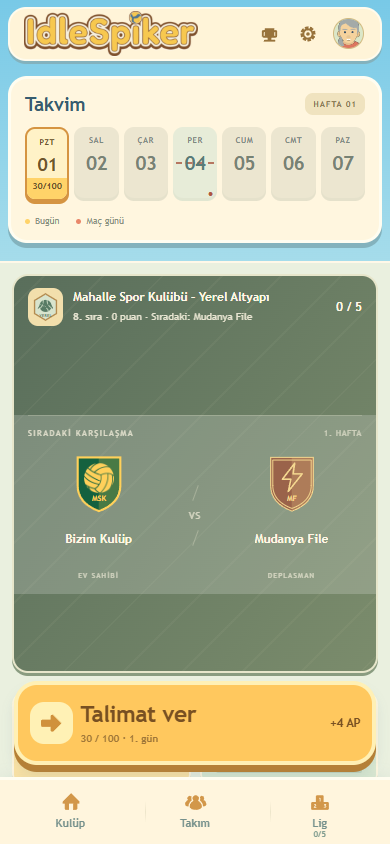
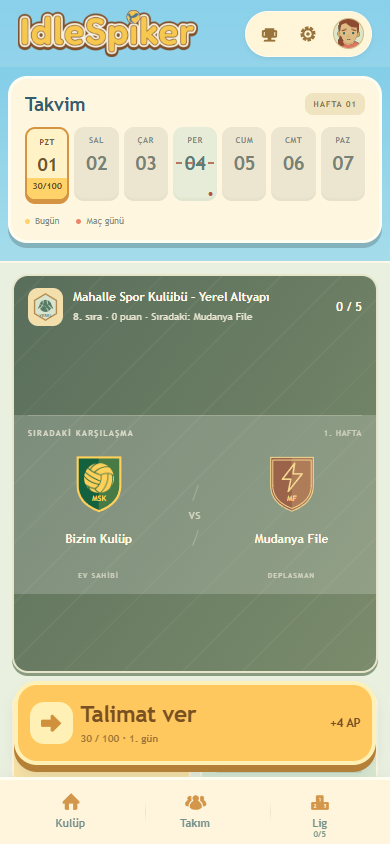
Restore original top menu appearance

Changed region(s): [[0.0, 0.0, 0.9846, 0.0924]]

diff --git a/index-beta.html b/index-beta.html
@@ -1,5 +1,5 @@
 <!doctype html>
-<html lang="tr" class="desktop-beta"><head><script src="desktop-beta-storage.js?v=df309e5c0cea"></script><script src="cheat-defaults.js?v=fb04f38373fa"></script><script src="flow-preview-environment.js?v=bd84173813bd"></script><meta charset="utf-8"><script src="font-preview-settings.js?v=c0da6286ef21"></script><meta name="viewport" content="width=device-width,initial-scale=1,viewport-fit=cover"><meta name="theme-color" content="#72c8e5"><link rel="manifest" href="manifest.webmanifest"><link rel="apple-touch-icon" href="assets/app/apple-touch-icon.png"><meta name="apple-mobile-web-app-capable" content="yes"><meta name="apple-mobile-web-app-title" content="Idle Spiker"><meta name="apple-mobile-web-app-status-bar-style" content="default"><link rel="stylesheet" href="app-display.css?v=386826b6db0c"><script src="app-display.js?v=fa3d8411a8fc" defer></script><title>Idle Spiker · Masaüstü Beta</title><link rel="stylesheet" href="menu.css?v=9c040b514aae"><link rel="stylesheet" href="menu-game.css?v=3b224ff0815e"><link rel="stylesheet" href="team.css?v=7a2716a13f11"><link rel="stylesheet" href="league-season.css?v=7bd34ac416e3"><link rel="stylesheet" href="loading-screen.css?v=9099e36fe6b2"><link rel="stylesheet" href="club-journey.css?v=a08812febb42"><link rel="stylesheet" href="bal-stage.css?v=9355e660bac8"><script src="season-clock.js?v=c90a74233800"></script><script src="bal-recovery.js?v=59d7a7b23c62"></script><script src="weekly-season-migration.js?v=c91052e58aec"></script><script src="number-ui.js?v=a24b5930e991"></script><link rel="stylesheet" href="theme.css?v=3c0c28bd21fb"><script src="theme.js?v=3046f3da7b5c"></script><link rel="stylesheet" href="achievements.css?v=9f468e44953f"><link rel="stylesheet" href="division-three.css?v=aaa8c61c16f3"><link rel="stylesheet" href="social-screen.css?v=5508cfdeab72"><link rel="stylesheet" href="league-players.css?v=86e88a43a3b5"><link rel="stylesheet" href="language.css?v=b027c2a552b8"><script src="language-data.js?v=3d3af7f60753"></script><script src="language.js?v=6352cc5dd035"></script><link rel="stylesheet" href="player-skills.css?v=da608137e96c"><link rel="stylesheet" href="styles/ui/player-club-card.css?v=90bb486a6720"><link rel="stylesheet" href="styles/ui/transfer-center.css?v=c191ab90712e"><script src="scripts/ui/dialog-navigation.js?v=36f81b7c2d8d" defer></script><link rel="stylesheet" href="social-journey.css?v=381c58c2dc22"><link rel="stylesheet" href="next-match-card.css?v=86a1598081ee"><link rel="stylesheet" href="social-follower-counter.css?v=038892551d63"><link rel="stylesheet" href="player-profile.css?v=4d4d593c797b"><link rel="stylesheet" href="ui-icons.css?v=b5ce6adfd485"><link rel="stylesheet" href="flow-effects.css?v=f82bf838ab8c"><link rel="stylesheet" href="board-doodles.css?v=85c5f17bdbe1"><link rel="stylesheet" href="board-presentation.css?v=35cd8283a51d"><link rel="stylesheet" href="progression-visuals.css?v=abd1b1d35d38"><link rel="stylesheet" href="flow-lanes.css?v=4b1a3ff63e8a"><link rel="stylesheet" href="flow-media-theme.css?v=a959430cbe25"><link rel="stylesheet" href="ui-components.css?v=c7c95201ad5f"><link rel="stylesheet" href="academy.css?v=7cbff784e2a2"><link rel="stylesheet" href="academy-career.css?v=6ae293465cf1"><link rel="stylesheet" href="legendary-unlock-preview.css?v=247b90f08604"><script src="point-music-rules.js?v=8ce930b25ffd"></script><link rel="stylesheet" href="desktop-beta.css?v=e52ffa5f7863"><link rel="stylesheet" href="energy-button.css?v=f1e720da92a5"><link rel="stylesheet" href="brand-typography.css?v=e4bc32e3d082"><link id="calendarPreviewStyle" rel="stylesheet" href="calendar-net-level.css?v=bcce67cfdeb8" media="not all"><link rel="stylesheet" href="header-playful-trial.css?v=eae8907717f6"><script src="calendar-preview-settings.js?v=0fe7d820edd3"></script></head>
+<html lang="tr" class="desktop-beta"><head><script src="desktop-beta-storage.js?v=df309e5c0cea"></script><script src="cheat-defaults.js?v=fb04f38373fa"></script><script src="flow-preview-environment.js?v=bd84173813bd"></script><meta charset="utf-8"><script src="font-preview-settings.js?v=c0da6286ef21"></script><meta name="viewport" content="width=device-width,initial-scale=1,viewport-fit=cover"><meta name="theme-color" content="#72c8e5"><link rel="manifest" href="manifest.webmanifest"><link rel="apple-touch-icon" href="assets/app/apple-touch-icon.png"><meta name="apple-mobile-web-app-capable" content="yes"><meta name="apple-mobile-web-app-title" content="Idle Spiker"><meta name="apple-mobile-web-app-status-bar-style" content="default"><link rel="stylesheet" href="app-display.css?v=386826b6db0c"><script src="app-display.js?v=fa3d8411a8fc" defer></script><title>Idle Spiker · Masaüstü Beta</title><link rel="stylesheet" href="menu.css?v=9c040b514aae"><link rel="stylesheet" href="menu-game.css?v=3b224ff0815e"><link rel="stylesheet" href="team.css?v=7a2716a13f11"><link rel="stylesheet" href="league-season.css?v=7bd34ac416e3"><link rel="stylesheet" href="loading-screen.css?v=9099e36fe6b2"><link rel="stylesheet" href="club-journey.css?v=a08812febb42"><link rel="stylesheet" href="bal-stage.css?v=9355e660bac8"><script src="season-clock.js?v=c90a74233800"></script><script src="bal-recovery.js?v=59d7a7b23c62"></script><script src="weekly-season-migration.js?v=c91052e58aec"></script><script src="number-ui.js?v=a24b5930e991"></script><link rel="stylesheet" href="theme.css?v=3c0c28bd21fb"><script src="theme.js?v=3046f3da7b5c"></script><link rel="stylesheet" href="achievements.css?v=9f468e44953f"><link rel="stylesheet" href="division-three.css?v=aaa8c61c16f3"><link rel="stylesheet" href="social-screen.css?v=5508cfdeab72"><link rel="stylesheet" href="league-players.css?v=86e88a43a3b5"><link rel="stylesheet" href="language.css?v=b027c2a552b8"><script src="language-data.js?v=3d3af7f60753"></script><script src="language.js?v=6352cc5dd035"></script><link rel="stylesheet" href="player-skills.css?v=da608137e96c"><link rel="stylesheet" href="styles/ui/player-club-card.css?v=90bb486a6720"><link rel="stylesheet" href="styles/ui/transfer-center.css?v=c191ab90712e"><script src="scripts/ui/dialog-navigation.js?v=36f81b7c2d8d" defer></script><link rel="stylesheet" href="social-journey.css?v=381c58c2dc22"><link rel="stylesheet" href="next-match-card.css?v=86a1598081ee"><link rel="stylesheet" href="social-follower-counter.css?v=038892551d63"><link rel="stylesheet" href="player-profile.css?v=4d4d593c797b"><link rel="stylesheet" href="ui-icons.css?v=b5ce6adfd485"><link rel="stylesheet" href="flow-effects.css?v=f82bf838ab8c"><link rel="stylesheet" href="board-doodles.css?v=85c5f17bdbe1"><link rel="stylesheet" href="board-presentation.css?v=35cd8283a51d"><link rel="stylesheet" href="progression-visuals.css?v=abd1b1d35d38"><link rel="stylesheet" href="flow-lanes.css?v=4b1a3ff63e8a"><link rel="stylesheet" href="flow-media-theme.css?v=a959430cbe25"><link rel="stylesheet" href="ui-components.css?v=c7c95201ad5f"><link rel="stylesheet" href="academy.css?v=7cbff784e2a2"><link rel="stylesheet" href="academy-career.css?v=6ae293465cf1"><link rel="stylesheet" href="legendary-unlock-preview.css?v=247b90f08604"><script src="point-music-rules.js?v=8ce930b25ffd"></script><link rel="stylesheet" href="desktop-beta.css?v=e52ffa5f7863"><link rel="stylesheet" href="energy-button.css?v=f1e720da92a5"><link rel="stylesheet" href="brand-typography.css?v=e4bc32e3d082"><link id="calendarPreviewStyle" rel="stylesheet" href="calendar-net-level.css?v=bcce67cfdeb8" media="not all"><link rel="stylesheet" href="header-playful-trial.css?v=ff8f702cb88a"><script src="calendar-preview-settings.js?v=0fe7d820edd3"></script></head>
 <body><div id="bootScreen" role="status" aria-live="polite" aria-label="Yükleniyor"><img class="boot-brand" src="assets/brand/idlespiker-cutout.png" alt="IdleSpiker" width="1038" height="266" decoding="async" fetchpriority="high"><span class="boot-loading-dots" aria-hidden="true"><i style="--dot:0"></i><i style="--dot:1"></i><i style="--dot:2"></i><i style="--dot:3"></i><i style="--dot:4"></i><i style="--dot:5"></i><i style="--dot:6"></i><i style="--dot:7"></i></span></div><script>window.bootStartedAt=performance.now();window.bootFallback=setTimeout(function(){document.getElementById("bootScreen")?.remove()},10000)</script><div class="shell"><aside class="rail"><a class="brand" href="index-beta.html" aria-label="Idle Spiker ana menü"><svg viewBox="0 0 40 40" aria-hidden="true"><circle cx="20" cy="20" r="15"/><path d="M7 13q15 0 18 22M19 5q-5 13-12 19M34 17q-12-3-19 13"/></svg></a><span class="rail-word">IDLE SPIKER</span><a class="rail-icon active" href="index-beta.html" aria-label="Kulüp merkezi" title="Kulüp merkezi">⌂</a><span class="rail-bottom">01 / CLUB</span></aside>
 <div class="content"><header class="topbar"><a href="index-beta.html" class="wordmark">IDLE<span>SPIKER</span><small>VOLEYBOL KULÜBÜ</small></a><nav aria-label="Ana gezinme"><span class="nav-current">Kulüp merkezi</span></nav><button id="settingsButton" class="settings-button" type="button" aria-label="Ayarları aç">⚙ Ayarlar</button></header>
 <main><div class="dashboard"><section id="clubPanel" class="club-panel" aria-label="Kulüp departmanları"><div class="section-top"><div><span class="eyebrow">BİZİM KULÜP · AŞAMA 1</span></div></div>

diff --git a/index.html b/index.html
@@ -1,5 +1,5 @@
 <!doctype html>
-<html lang="tr"><head><script src="cheat-defaults.js?v=fb04f38373fa"></script><script src="flow-preview-environment.js?v=bd84173813bd"></script><meta charset="utf-8"><script src="font-preview-settings.js?v=c0da6286ef21"></script><meta name="viewport" content="width=device-width,initial-scale=1,viewport-fit=cover"><meta name="theme-color" content="#72c8e5"><link rel="manifest" href="manifest.webmanifest"><link rel="apple-touch-icon" href="assets/app/apple-touch-icon.png"><meta name="apple-mobile-web-app-capable" content="yes"><meta name="apple-mobile-web-app-title" content="Idle Spiker"><meta name="apple-mobile-web-app-status-bar-style" content="default"><link rel="stylesheet" href="app-display.css?v=386826b6db0c"><script src="app-display.js?v=fa3d8411a8fc" defer></script><title>Idle Spiker · Kulüp Merkezi</title><link rel="stylesheet" href="menu.css?v=9c040b514aae"><link rel="stylesheet" href="menu-game.css?v=3b224ff0815e"><link rel="stylesheet" href="team.css?v=7a2716a13f11"><link rel="stylesheet" href="league-season.css?v=7bd34ac416e3"><link rel="stylesheet" href="loading-screen.css?v=9099e36fe6b2"><link rel="stylesheet" href="club-journey.css?v=a08812febb42"><link rel="stylesheet" href="bal-stage.css?v=9355e660bac8"><script src="season-clock.js?v=c90a74233800"></script><script src="bal-recovery.js?v=59d7a7b23c62"></script><script src="weekly-season-migration.js?v=c91052e58aec"></script><script src="number-ui.js?v=a24b5930e991"></script><link rel="stylesheet" href="theme.css?v=3c0c28bd21fb"><script src="theme.js?v=3046f3da7b5c"></script><link rel="stylesheet" href="achievements.css?v=9f468e44953f"><link rel="stylesheet" href="division-three.css?v=aaa8c61c16f3"><link rel="stylesheet" href="social-screen.css?v=5508cfdeab72"><link rel="stylesheet" href="league-players.css?v=86e88a43a3b5"><link rel="stylesheet" href="language.css?v=b027c2a552b8"><script src="language-data.js?v=3d3af7f60753"></script><script src="language.js?v=6352cc5dd035"></script><link rel="stylesheet" href="player-skills.css?v=da608137e96c"><link rel="stylesheet" href="styles/ui/player-club-card.css?v=90bb486a6720"><link rel="stylesheet" href="styles/ui/transfer-center.css?v=c191ab90712e"><script src="scripts/ui/dialog-navigation.js?v=36f81b7c2d8d" defer></script><link rel="stylesheet" href="social-journey.css?v=381c58c2dc22"><link rel="stylesheet" href="next-match-card.css?v=86a1598081ee"><link rel="stylesheet" href="social-follower-counter.css?v=038892551d63"><link rel="stylesheet" href="player-profile.css?v=4d4d593c797b"><link rel="stylesheet" href="ui-icons.css?v=b5ce6adfd485"><link rel="stylesheet" href="flow-effects.css?v=f82bf838ab8c"><link rel="stylesheet" href="board-doodles.css?v=85c5f17bdbe1"><link rel="stylesheet" href="board-presentation.css?v=35cd8283a51d"><link rel="stylesheet" href="progression-visuals.css?v=abd1b1d35d38"><link rel="stylesheet" href="flow-lanes.css?v=4b1a3ff63e8a"><link rel="stylesheet" href="flow-media-theme.css?v=a959430cbe25"><link rel="stylesheet" href="ui-components.css?v=c7c95201ad5f"><link rel="stylesheet" href="academy.css?v=7cbff784e2a2"><link rel="stylesheet" href="academy-career.css?v=6ae293465cf1"><link rel="stylesheet" href="legendary-unlock-preview.css?v=247b90f08604"><script src="point-music-rules.js?v=8ce930b25ffd"></script><link rel="stylesheet" href="playtest-recorder.css?v=51d9cde4bc23"><link rel="stylesheet" href="energy-button.css?v=f1e720da92a5"><link rel="stylesheet" href="brand-typography.css?v=e4bc32e3d082"><link id="calendarPreviewStyle" rel="stylesheet" href="calendar-net-level.css?v=bcce67cfdeb8" media="not all"><link rel="stylesheet" href="header-playful-trial.css?v=eae8907717f6"><script src="calendar-preview-settings.js?v=0fe7d820edd3"></script></head>
+<html lang="tr"><head><script src="cheat-defaults.js?v=fb04f38373fa"></script><script src="flow-preview-environment.js?v=bd84173813bd"></script><meta charset="utf-8"><script src="font-preview-settings.js?v=c0da6286ef21"></script><meta name="viewport" content="width=device-width,initial-scale=1,viewport-fit=cover"><meta name="theme-color" content="#72c8e5"><link rel="manifest" href="manifest.webmanifest"><link rel="apple-touch-icon" href="assets/app/apple-touch-icon.png"><meta name="apple-mobile-web-app-capable" content="yes"><meta name="apple-mobile-web-app-title" content="Idle Spiker"><meta name="apple-mobile-web-app-status-bar-style" content="default"><link rel="stylesheet" href="app-display.css?v=386826b6db0c"><script src="app-display.js?v=fa3d8411a8fc" defer></script><title>Idle Spiker · Kulüp Merkezi</title><link rel="stylesheet" href="menu.css?v=9c040b514aae"><link rel="stylesheet" href="menu-game.css?v=3b224ff0815e"><link rel="stylesheet" href="team.css?v=7a2716a13f11"><link rel="stylesheet" href="league-season.css?v=7bd34ac416e3"><link rel="stylesheet" href="loading-screen.css?v=9099e36fe6b2"><link rel="stylesheet" href="club-journey.css?v=a08812febb42"><link rel="stylesheet" href="bal-stage.css?v=9355e660bac8"><script src="season-clock.js?v=c90a74233800"></script><script src="bal-recovery.js?v=59d7a7b23c62"></script><script src="weekly-season-migration.js?v=c91052e58aec"></script><script src="number-ui.js?v=a24b5930e991"></script><link rel="stylesheet" href="theme.css?v=3c0c28bd21fb"><script src="theme.js?v=3046f3da7b5c"></script><link rel="stylesheet" href="achievements.css?v=9f468e44953f"><link rel="stylesheet" href="division-three.css?v=aaa8c61c16f3"><link rel="stylesheet" href="social-screen.css?v=5508cfdeab72"><link rel="stylesheet" href="league-players.css?v=86e88a43a3b5"><link rel="stylesheet" href="language.css?v=b027c2a552b8"><script src="language-data.js?v=3d3af7f60753"></script><script src="language.js?v=6352cc5dd035"></script><link rel="stylesheet" href="player-skills.css?v=da608137e96c"><link rel="stylesheet" href="styles/ui/player-club-card.css?v=90bb486a6720"><link rel="stylesheet" href="styles/ui/transfer-center.css?v=c191ab90712e"><script src="scripts/ui/dialog-navigation.js?v=36f81b7c2d8d" defer></script><link rel="stylesheet" href="social-journey.css?v=381c58c2dc22"><link rel="stylesheet" href="next-match-card.css?v=86a1598081ee"><link rel="stylesheet" href="social-follower-counter.css?v=038892551d63"><link rel="stylesheet" href="player-profile.css?v=4d4d593c797b"><link rel="stylesheet" href="ui-icons.css?v=b5ce6adfd485"><link rel="stylesheet" href="flow-effects.css?v=f82bf838ab8c"><link rel="stylesheet" href="board-doodles.css?v=85c5f17bdbe1"><link rel="stylesheet" href="board-presentation.css?v=35cd8283a51d"><link rel="stylesheet" href="progression-visuals.css?v=abd1b1d35d38"><link rel="stylesheet" href="flow-lanes.css?v=4b1a3ff63e8a"><link rel="stylesheet" href="flow-media-theme.css?v=a959430cbe25"><link rel="stylesheet" href="ui-components.css?v=c7c95201ad5f"><link rel="stylesheet" href="academy.css?v=7cbff784e2a2"><link rel="stylesheet" href="academy-career.css?v=6ae293465cf1"><link rel="stylesheet" href="legendary-unlock-preview.css?v=247b90f08604"><script src="point-music-rules.js?v=8ce930b25ffd"></script><link rel="stylesheet" href="playtest-recorder.css?v=51d9cde4bc23"><link rel="stylesheet" href="energy-button.css?v=f1e720da92a5"><link rel="stylesheet" href="brand-typography.css?v=e4bc32e3d082"><link id="calendarPreviewStyle" rel="stylesheet" href="calendar-net-level.css?v=bcce67cfdeb8" media="not all"><link rel="stylesheet" href="header-playful-trial.css?v=ff8f702cb88a"><script src="calendar-preview-settings.js?v=0fe7d820edd3"></script></head>
 <body><div id="bootScreen" role="status" aria-live="polite" aria-label="Yükleniyor"><img class="boot-brand" src="assets/brand/idlespiker-cutout.png" alt="IdleSpiker" width="1038" height="266" decoding="async" fetchpriority="high"><span class="boot-loading-dots" aria-hidden="true"><i style="--dot:0"></i><i style="--dot:1"></i><i style="--dot:2"></i><i style="--dot:3"></i><i style="--dot:4"></i><i style="--dot:5"></i><i style="--dot:6"></i><i style="--dot:7"></i></span></div><script>window.bootStartedAt=performance.now();window.bootFallback=setTimeout(function(){document.getElementById("bootScreen")?.remove()},10000)</script><div class="shell"><aside class="rail"><a class="brand" href="index.html" aria-label="Idle Spiker ana menü"><svg viewBox="0 0 40 40" aria-hidden="true"><circle cx="20" cy="20" r="15"/><path d="M7 13q15 0 18 22M19 5q-5 13-12 19M34 17q-12-3-19 13"/></svg></a><span class="rail-word">IDLE SPIKER</span><a class="rail-icon active" href="index.html" aria-label="Kulüp merkezi" title="Kulüp merkezi">⌂</a><span class="rail-bottom">01 / CLUB</span></aside>
 <div class="content"><header class="topbar"><a href="index.html" class="wordmark" aria-label="IdleSpiker · Kulüp"><img class="brand-logo" src="assets/brand/idlespiker-cutout.png" alt="IdleSpiker" width="1038" height="266" decoding="async" fetchpriority="high"></a><nav aria-label="Ana gezinme"><span class="nav-current">Kulüp merkezi</span></nav><button id="settingsButton" class="settings-button" type="button" aria-label="Ayarları aç">⚙ Ayarlar</button></header>
 <main><div class="dashboard"><section id="clubPanel" class="club-panel" aria-label="Kulüp departmanları"><div class="section-top"><div><span class="eyebrow">BİZİM KULÜP · AŞAMA 1</span></div></div>

diff --git a/header-playful-trial.css b/header-playful-trial.css
@@ -1,11 +1,3 @@
-/* Small club-sign header: preserve the existing header and button geometry. */
-html body .topbar{position:relative;isolation:isolate;background:transparent}
-html body .topbar::before{content:"";position:absolute;inset:7px 8px 6px;z-index:-1;pointer-events:none;background:#fff4d8;border:2px solid #fffbed;border-radius:18px;box-shadow:0 3px 0 #83b2bd}
-html body .topbar .wordmark{padding-left:6px;box-sizing:border-box}
-html body .topbar .topbar-actions{background:transparent;border-color:transparent;box-shadow:none}
-html body .topbar .wordmark .brand-logo{filter:drop-shadow(0 1px 0 #ffffff80)}
-html[data-theme=dark] body .topbar::before{background:#304b4a;border-color:#678477;box-shadow:0 3px 0 #172f34}
-
 /* Original calendar uses a simple bottom fill rather than the optional vector skin. */
 html:not(.framed-calendar-preview) body #calendarPanel .calendar-fill{height:var(--day-fill,0%)}
 html:not(.framed-calendar-preview):not([data-theme=dark]) body #calendarPanel .calendar-day.match:not(.today){background:#e7ecd8;color:#587b78}

diff --git a/DESIGN-SYSTEM.md b/DESIGN-SYSTEM.md
@@ -1289,3 +1289,6 @@ Kamptaki oyuncunun kalan gününü oluşturan hatalı campDayscampDays çağrıs
 
 
 2 Kasım son kullanıcı düzeltmesi: takvim için yapılmış kulüp taş/krem zemini, 4px kulüp/lig köşeleri ve alt navigasyon köşesi/tabanı varsayılan görünümden kaldırıldı. Eski takvimle özgün yeşil kulüp zemini ve yuvarlak kulüp/lig kartları geri döndü. Butonların son basış tasarımları korunur. Önceki dok/takvim uyumu notu artık yalnız isteğe bağlı çerçeveli takvim denemesini tarif eder. Üstteki ortak logo tabelası ayrı yeni denemedir. Eski takvimde uzun gün rakamları hücre içinde boyutlanır; normal font korunur.
+
+
+2 Kasım üst menü geri alımı: kullanıcı ortak krem tabela denemesini reddetti. Üst menü özgün mavi zemin, serbest logo ve sağdaki krem kontrol kapsülüne döndü; tabela pseudo yüzeyi, logo iç boşluğu ve yeni logo filtresi kaldırıldı. Eski takvim varsayılanı, isteğe bağlı çerçeveli takvim ve paylaşım sesi korunur.
